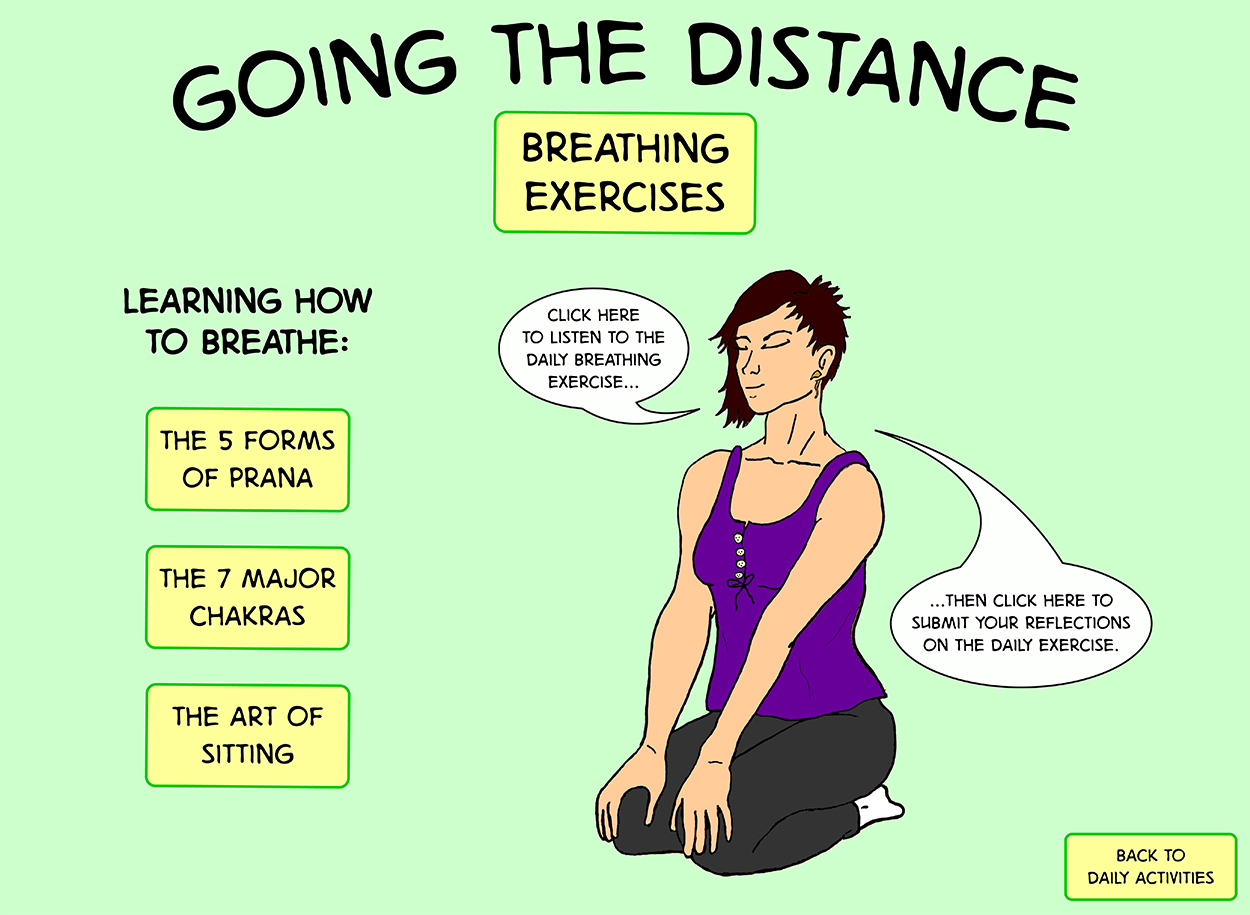
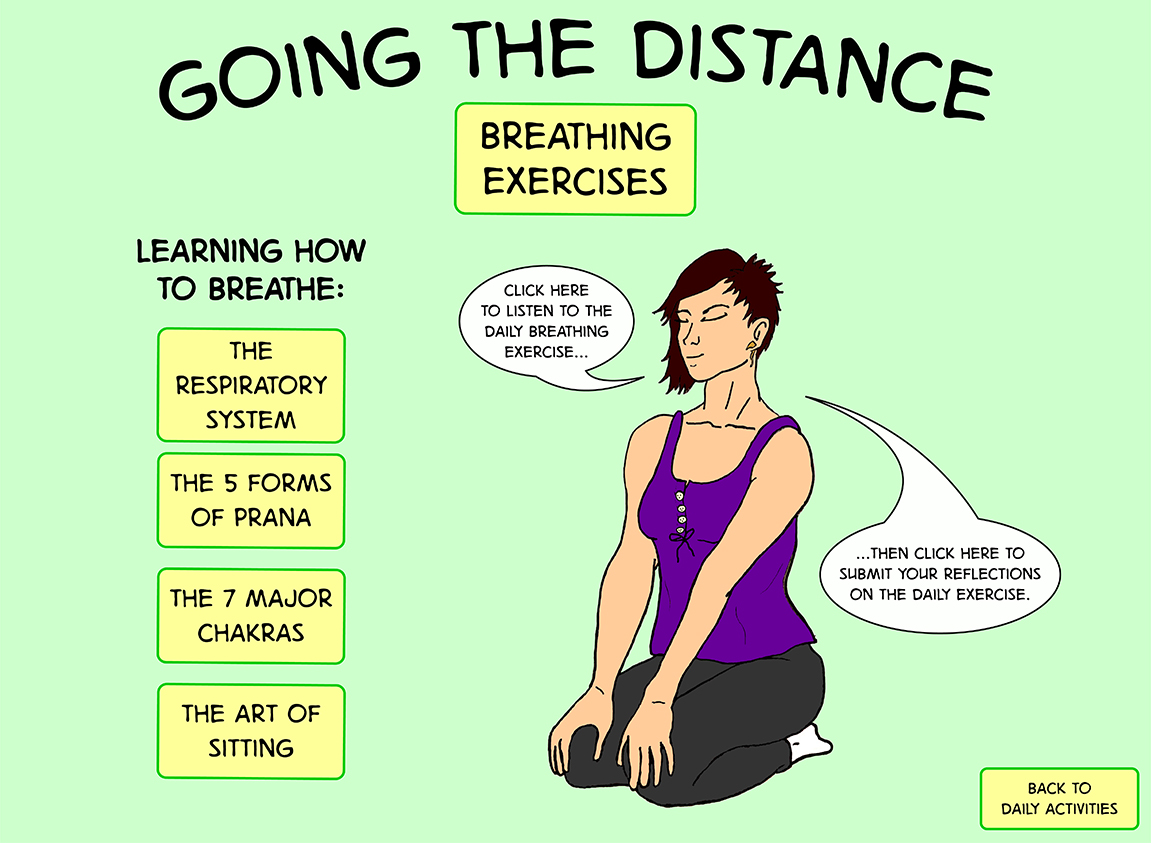
resized images, added warm up and cool down vids

diff --git a/classroom_tauntaun_dailyActivities.html b/classroom_tauntaun_dailyActivities.html
@@ -13,9 +13,9 @@
 <center><img src="assets/maps/classroom_tauntaun_dailyActivities.jpg" usemap="#image-map"></center>
 
 <map name="image-map">
-    <area target="" alt="Back to Class Main Page" title="Back to Class Main Page" href="https://aicl2020.github.io/classroom_tauntaun_main.html" coords="1061,831,1241,901" shape="rect">
-    <area target="" alt="Running Exercises" title="Running Exercises" href="https://aicl2020.github.io/classroom_tauntaun_runningExercises.html" coords="97,206,146,198,208,218,233,268,204,311,248,315,267,246,287,219,366,198,358,278,354,321,404,331,468,391,456,486,440,521,429,535,409,587,420,667,491,773,511,802,506,883,491,892,452,893,456,861,459,802,427,757,412,769,384,849,357,861,327,851,345,772,339,745,260,651,249,631,255,590,280,552,300,506,290,470,275,443,233,465,221,465,220,430,240,379,251,345,219,336,160,331,125,327,75,308,51,270,59,237" shape="poly">
-    <area target="" alt="Breathing Exercises" title="Breathing Exercises" href="https://aicl2020.github.io/classroom_tauntaun_breathingExercises.html" coords="705,285,744,281,767,285,803,303,826,325,854,328,857,305,880,288,917,264,955,273,982,312,978,352,962,387,959,426,990,446,1006,474,1021,527,1005,557,1002,600,990,634,1021,690,1031,737,1019,780,1037,808,997,830,971,841,917,866,849,875,811,855,748,855,723,824,728,794,778,718,794,610,811,533,817,466,818,439,777,439,751,433,668,406,656,383,652,325" shape="poly">
+    <area target="" alt="Back to Class Main Page" title="Back to Class Main Page" href="https://aicl2020.github.io/classroom_tauntaun_main.html" coords="979,765,1139,829" shape="rect">
+    <area target="" alt="Running Exercises" title="Running Exercises" href="https://aicl2020.github.io/classroom_tauntaun_runningExercises.html" coords="113,185,64,202,48,240,53,264,69,285,92,297,111,304,130,306,141,304,156,305,176,313,202,309,217,299,232,303,232,317,228,338,222,360,206,382,199,396,197,414,206,422,212,430,228,410,238,396,243,391,253,410,259,434,268,446,278,467,270,475,270,487,257,503,260,516,234,534,223,557,228,582,244,599,256,610,276,636,293,666,312,690,317,704,318,719,314,735,311,761,305,774,300,782,314,793,329,790,345,788,355,778,365,756,370,737,378,719,383,709,359,687,350,686,329,648,320,614,312,594,288,575,290,562,307,562,309,576,318,583,331,608,342,638,354,652,374,669,388,692,407,718,419,739,419,749,419,776,419,796,414,811,411,824,421,827,439,827,456,826,464,816,466,791,469,769,476,740,467,727,454,723,446,713,412,651,410,639,386,607,378,579,379,544,373,522,398,503,395,473,413,471,422,451,435,364,383,316,359,301,325,295,320,273,329,251,315,213,339,192,339,178,279,186,265,202,239,239,243,274,233,287,200,285,190,283,209,251,212,228,186,201,155,188" shape="poly">
+    <area target="" alt="Breathing Exercises" title="Breathing Exercises" href="https://aicl2020.github.io/classroom_tauntaun_breathingExercises.html" coords="618,283,605,316,602,337,609,370,625,382,653,386,685,395,703,398,741,407,763,423,747,461,746,504,737,547,726,579,716,627,712,671,695,696,664,735,671,773,685,777,691,787,732,785,750,788,787,809,826,809,857,797,905,775,929,759,956,748,942,717,952,656,932,621,912,584,923,544,923,515,942,489,934,434,913,410,889,395,880,358,898,338,905,315,905,280,889,252,865,244,824,248,797,280,774,306,760,288,723,266,668,254" shape="poly">
 </map>
 </body>
 

diff --git a/classroom_tauntaun_runningExercises.html b/classroom_tauntaun_runningExercises.html
@@ -13,11 +13,14 @@
 <center><img src="assets/maps/classroom_tauntaun_runningExercises.jpg" usemap="#image-map"></center>
 
 <map name="image-map">
-    <area target="" alt="Daily Warmup" title="Daily Warmup" href="" coords="770,327,976,436" shape="rect">
-    <area target="" alt="Today's Running Challenge" title="Today's Running Challenge" href="" coords="771,458,972,586" shape="rect">
-    <area target="" alt="Daily Cool Down" title="Daily Cool Down" href="" coords="770,609,975,710" shape="rect">
-    <area target="" alt="Log Daily Runs" title="Log Daily Runs" href="" coords="251,264,83" shape="circle">
-    <area target="" alt="Back to Daily Activities" title="Back to Daily Activities" href="https://aicl2020.github.io/classroom_tauntaun_dailyActivities.html" coords="1065,833,1239,898" shape="rect">
+    <area target="" alt="Daily Warm Up Easy" title="Daily Warm Up Easy" class="lightwindow" params="lightwindow_width=960,lightwindow_height=540" href="https://dl.dropbox.com/s/hondjrqd2zkw078/tauntaun_warmUpEasy.mp4" coords="580,277,790,376" shape="rect">
+    <area target="" alt="Daily Warm Up Advanced" title="Daily Warm Up Advanced" class="lightwindow" params="lightwindow_width=960,lightwindow_height=540" href="https://dl.dropbox.com/s/33q6e33ldhryuxu/tauntaun_warmUpAdvanced.mp4" coords="829,280,1040,373" shape="rect">
+    <area target="" alt="Daily Running Challenges" title="Daily Running Challenges" href="" coords="713,388,905,515" shape="rect">
+    <area target="" alt="Daily Cool Down Easy" title="Daily Cool Down Easy" class="lightwindow" params="lightwindow_width=960,lightwindow_height=540" href="https://dl.dropbox.com/s/viukriq3vwe407a/tauntaun_coolDownEasy.mp4" coords="551,531,802,630" shape="rect">
+    <area target="" alt="Daily Cool Down Advanced" title="Daily Cool Down Advanced" class="lightwindow" params="lightwindow_width=960,lightwindow_height=540" href="https://dl.dropbox.com/s/3oqnjq9kpazsa0y/tauntaun_coolDownAdvanced.mp4" coords="825,531,1068,628" shape="rect">
+    <area target="" alt="Back to Daily Activities" title="Back to Daily Activities" href="https://aicl2020.github.io/classroom_tauntaun_dailyActivities.html" coords="978,769,1141,828" shape="rect">
+    <area target="" alt="Log Daily Runs" title="Log Daily Runs" href="" coords="151,179,118,193,101,221,92,246,102,281,120,296,152,308,183,304,221,311,249,306,269,291,235,291,250,269,261,245,245,213,214,186,192,179" shape="poly">
+    <area target="" alt="Running Tauntaun" title="Running Tauntaun" href="" coords="298,212,279,227,277,244,276,258,279,273,285,290,295,293,288,298,271,309,268,313,265,330,262,347,239,387,238,426,253,430,279,394,290,407,295,430,301,440,313,447,313,460,311,478,309,492,295,499,286,525,269,539,262,564,272,586,284,598,308,631,331,662,356,702,355,725,344,769,343,785,368,792,397,782,402,760,412,730,420,709,426,683,451,727,462,768,461,796,448,814,460,828,480,827,503,816,508,784,513,731,493,710,460,677,433,626,421,605,418,546,437,499,455,462,463,430,470,370,470,362,425,326,413,309,374,290,351,277,367,251,367,229,353,216,376,188,341,188,310,193,298,199" shape="poly">
 </map>
 </body>
 

diff --git a/classroom_tauntaun_main.html b/classroom_tauntaun_main.html
@@ -13,12 +13,12 @@
 <center><img src="assets/maps/classroom_tauntaun_main.jpg" usemap="#image-map"></center>
 
 <map name="image-map">
-    <area target="" alt="Daily Activities" title="Daily Activities" href="https://aicl2020.github.io/classroom_tauntaun_dailyActivities.html" coords="860,183,1108,307" shape="rect">
-    <area target="" alt="Library" title="Library" href="https://aicl2020.github.io/classroom_tauntaun_library.html" coords="841,332,1127,454" shape="rect">
-    <area target="" alt="Rewards" title="Rewards" href="https://aicl2020.github.io/classroom_tauntaun_rewards.html" coords="823,482,1147,598" shape="rect">
-    <area target="" alt="Zombies" title="Zombies" href="https://aicl2020.github.io/classroom_tauntaun_zombies.html" coords="806,627,1163,745" shape="rect">
-    <area target="" alt="Back to Camp" title="Back to Camp" href="https://aicl2020.github.io/all_classrooms.html" coords="849,799,1119,858" shape="rect">
-    <area target="_blank" alt="About Tauntaun" title="About Tauntaun" href="http://www.danbeekim.org/about-me/" coords="420,117,366,143,337,168,319,238,292,280,314,292,310,315,355,328,372,340,330,358,308,356,284,366,266,398,262,439,282,485,284,541,300,602,321,653,303,686,279,671,177,646,129,682,134,718,166,757,231,820,243,842,221,847,213,874,240,900,270,905,325,902,369,885,385,883,405,873,428,863,440,870,471,883,536,896,604,894,641,866,633,834,632,811,671,751,693,709,692,673,656,639,579,649,545,680,520,647,547,555,567,438,565,415,541,387,506,368,479,352,473,323,486,299,503,248,510,193,511,175,477,146,448,125" shape="poly">
+    <area target="" alt="Daily Activities" title="Daily Activities" href="https://aicl2020.github.io/classroom_tauntaun_dailyActivities.html" coords="791,169,1019,283" shape="rect">
+    <area target="" alt="Library" title="Library" href="https://aicl2020.github.io/classroom_tauntaun_library.html" coords="774,307,1040,417" shape="rect">
+    <area target="" alt="Rewards" title="Rewards" href="https://aicl2020.github.io/classroom_tauntaun_rewards.html" coords="759,442,1055,554" shape="rect">
+    <area target="" alt="Zombies" title="Zombies" href="https://aicl2020.github.io/classroom_tauntaun_zombies.html" coords="746,579,1067,684" shape="rect">
+    <area target="" alt="Back to Camp" title="Back to Camp" href="https://aicl2020.github.io/all_classrooms.html" coords="778,740,1033,790" shape="rect">
+    <area target="_blank" alt="About Tauntaun" title="About Tauntaun" href="http://www.danbeekim.org/about-me/" coords="360,118,320,141,298,201,272,249,294,290,320,316,299,338,261,335,239,373,246,420,260,466,281,554,290,592,276,626,220,604,193,605,157,596,116,632,118,660,146,687,173,724,216,754,238,763,216,772,199,781,192,801,218,827,243,835,278,825,306,831,333,819,356,819,374,811,392,798,417,808,434,816,496,831,553,822,591,799,583,767,560,765,590,736,631,676,641,638,643,617,603,588,536,596,501,624,477,597,496,540,502,480,521,418,523,394,498,355,470,340,443,330,436,298,449,277,463,226,472,181,472,158,439,129,408,112" shape="poly">
 </map>
 </body>
 

diff --git a/classroom_tauntaun_breathingExercises.html b/classroom_tauntaun_breathingExercises.html
@@ -12,13 +12,18 @@
 <!-- Image Map Generated by http://www.image-map.net/ -->
 <center><img src="assets/maps/classroom_tauntaun_breathingExercises.jpg" usemap="#image-map"></center>
 
+<!-- Image Map Generated by http://www.image-map.net/ -->
+<img src="Classroom_tauntaun_breathingExercises.jpg" usemap="#image-map">
+
 <map name="image-map">
-    <area target="" alt="5 forms of Prana" title="5 forms of Prana" href="" coords="146,404,350,508" shape="rect">
-    <area target="" alt="7 major Chakras" title="7 major Chakras" href="" coords="142,547,347,648" shape="rect">
-    <area target="" alt="Art of Sitting" title="Art of Sitting" href="" coords="144,684,347,786" shape="rect">
-    <area target="" alt="Back to Daily Activities" title="Back to Daily Activities" href="https://aicl2020.github.io/classroom_tauntaun_dailyActivities.html" coords="1066,833,1238,898" shape="rect">
-    <area target="" alt="Daily Breathing Exercise" title="Daily Breathing Exercise" href="" coords="597,368,95" shape="circle">
-    <area target="" alt="Submit Reflections" title="Submit Reflections" href="" coords="1021,616,107" shape="circle">
+    <area target="" alt="Respiratory System" title="Respiratory System" href="" coords="157,327,347,445" shape="rect">
+    <area target="" alt="Prana" title="Prana" href="" coords="155,457,343,544" shape="rect">
+    <area target="" alt="Chakras" title="Chakras" href="" coords="158,569,343,661" shape="rect">
+    <area target="" alt="Sitting" title="Sitting" href="" coords="158,680,348,778" shape="rect">
+    <area target="" alt="Daily Breathing Exercise" title="Daily Breathing Exercise" href="" coords="463,304,492,276,535,262,570,266,614,287,632,314,630,337,615,356,587,368,608,379,642,377,592,393,563,387,535,374,508,374,470,354,456,329" shape="poly">
+    <area target="" alt="Submit Reflections" title="Submit Reflections" href="" coords="881,521,851,533,823,557,820,586,845,611,887,629,921,637,972,637,1011,628,1055,596,1062,564,1036,533,985,519,962,492,933,456,898,431,840,409,810,396,846,421,872,435,883,456,894,488" shape="poly">
+    <area target="" alt="Back to Daily Activities" title="Back to Daily Activities" href="https://aicl2020.github.io/classroom_tauntaun_dailyActivities.html" coords="979,767,1138,828" shape="rect">
+    <area target="" alt="Tauntaun sitting" title="Tauntaun sitting" href="" coords="655,312,662,326,659,357,661,380,668,388,675,413,651,416,633,427,626,461,619,483,624,515,608,556,602,569,598,602,593,650,588,676,550,724,549,769,567,781,580,790,616,786,631,791,661,806,700,806,738,798,772,780,798,760,831,755,835,742,822,720,825,698,826,662,814,633,789,590,797,549,800,517,814,494,813,456,805,437,792,414,773,407,765,368,770,349,783,318,783,297,786,284,771,263,758,253,726,246,703,252,679,265" shape="poly">
 </map>
 </body>
 

diff --git a/classroom_tauntaun_rewards.html b/classroom_tauntaun_rewards.html
@@ -13,10 +13,11 @@
 <center><img src="assets/maps/classroom_tauntaun_rewards.jpg" usemap="#image-map"></center>
 
 <map name="image-map">
-    <area target="" alt="Back to Class Main Page" title="Back to Class Main Page" href="https://aicl2020.github.io/classroom_tauntaun_main.html" coords="1062,832,1237,902" shape="rect">
-    <area target="" alt="Swag" title="Swag" href="" coords="455,514,146" shape="circle">
-    <area target="" alt="Jumping Tauntaun" title="Jumping Tauntaun" href="" coords="192,148,181,162,181,187,194,205,170,288,149,321,114,320,94,356,117,406,113,453,109,480,130,548,144,583,125,620,114,665,113,721,91,717,34,718,20,798,44,826,59,837,62,858,91,900,131,890,152,858,173,890,208,890,233,826,258,759,267,686,271,627,288,608,267,530,251,472,264,447,274,373,304,350,329,286,359,283,367,263,357,235,333,227,299,233,299,271,272,311,249,342,208,319,224,250,236,195,223,164" shape="poly">
+    <area target="" alt="Back to Class Main Page" title="Back to Class Main Page" href="https://aicl2020.github.io/classroom_tauntaun_main.html" coords="978,765,1138,828" shape="rect">
+    <area target="" alt="Jumping Tauntaun" title="Jumping Tauntaun" href="" coords="178,137,168,149,167,172,177,185,186,200,176,229,169,248,160,262,151,287,149,301,102,294,105,315,88,326,101,348,99,365,113,382,104,407,107,428,102,444,110,462,118,494,134,527,129,551,116,573,114,598,108,624,102,663,92,658,76,664,69,676,56,674,42,667,27,677,23,697,26,711,20,731,24,746,45,760,51,767,55,787,64,802,79,829,96,830,112,826,126,825,138,784,144,804,158,822,190,822,204,801,220,753,233,713,245,676,248,622,250,584,265,563,254,534,246,500,250,481,229,441,257,353,283,321,303,266,314,261,325,261,340,239,320,216,303,210,287,217,278,231,281,244,248,286,234,313,210,314,190,292,210,223,217,176,211,154,199,144" shape="poly">
+    <area target="" alt="Handmade Swag" title="Handmade Swag" href="" coords="277,360,330,355,390,356,428,371,504,384,538,407,567,441,564,501,535,531,500,547,462,554,415,560,368,556,311,532,274,485,272,442,306,406,329,387" shape="poly">
 </map>
+
 </body>
 
 <!-- Function for embedding audio files in image map. Audio files play when that area of the image map is clicked -->
